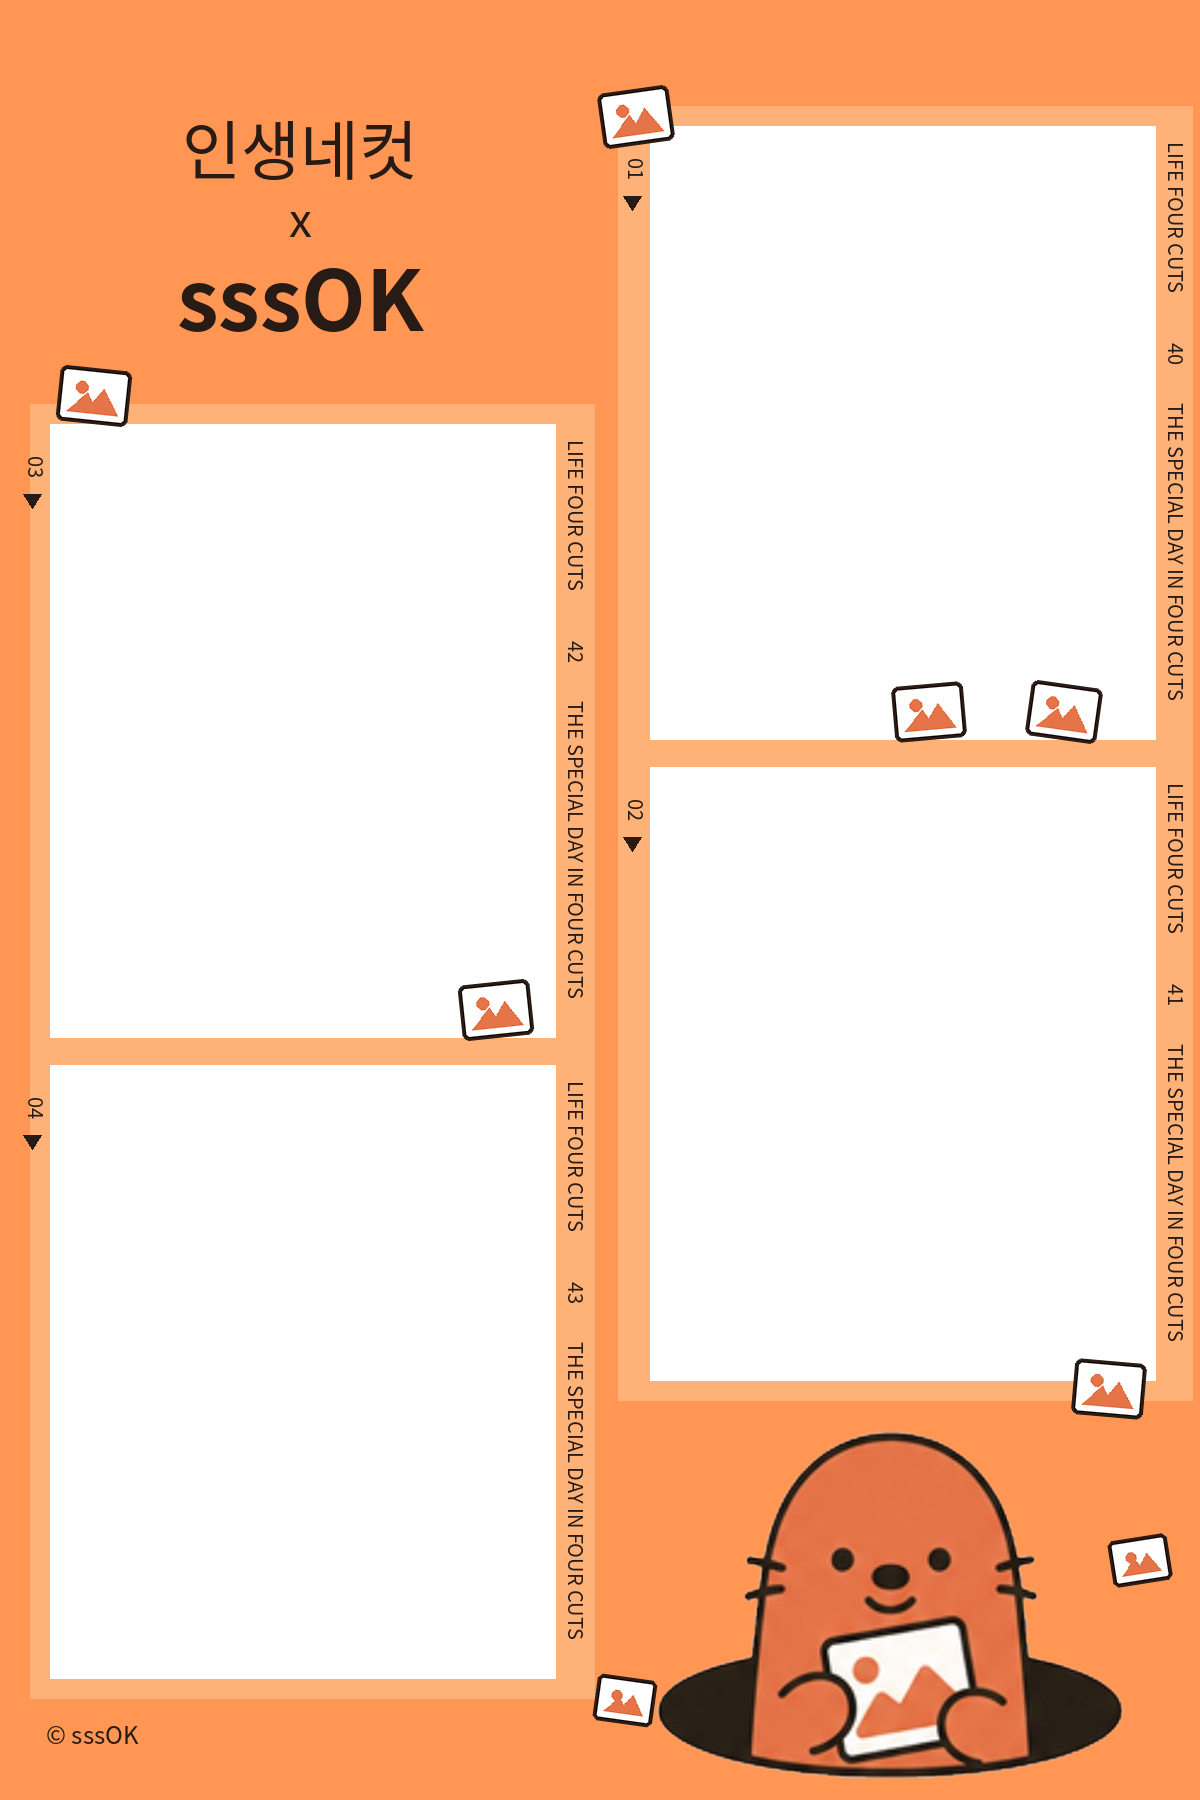
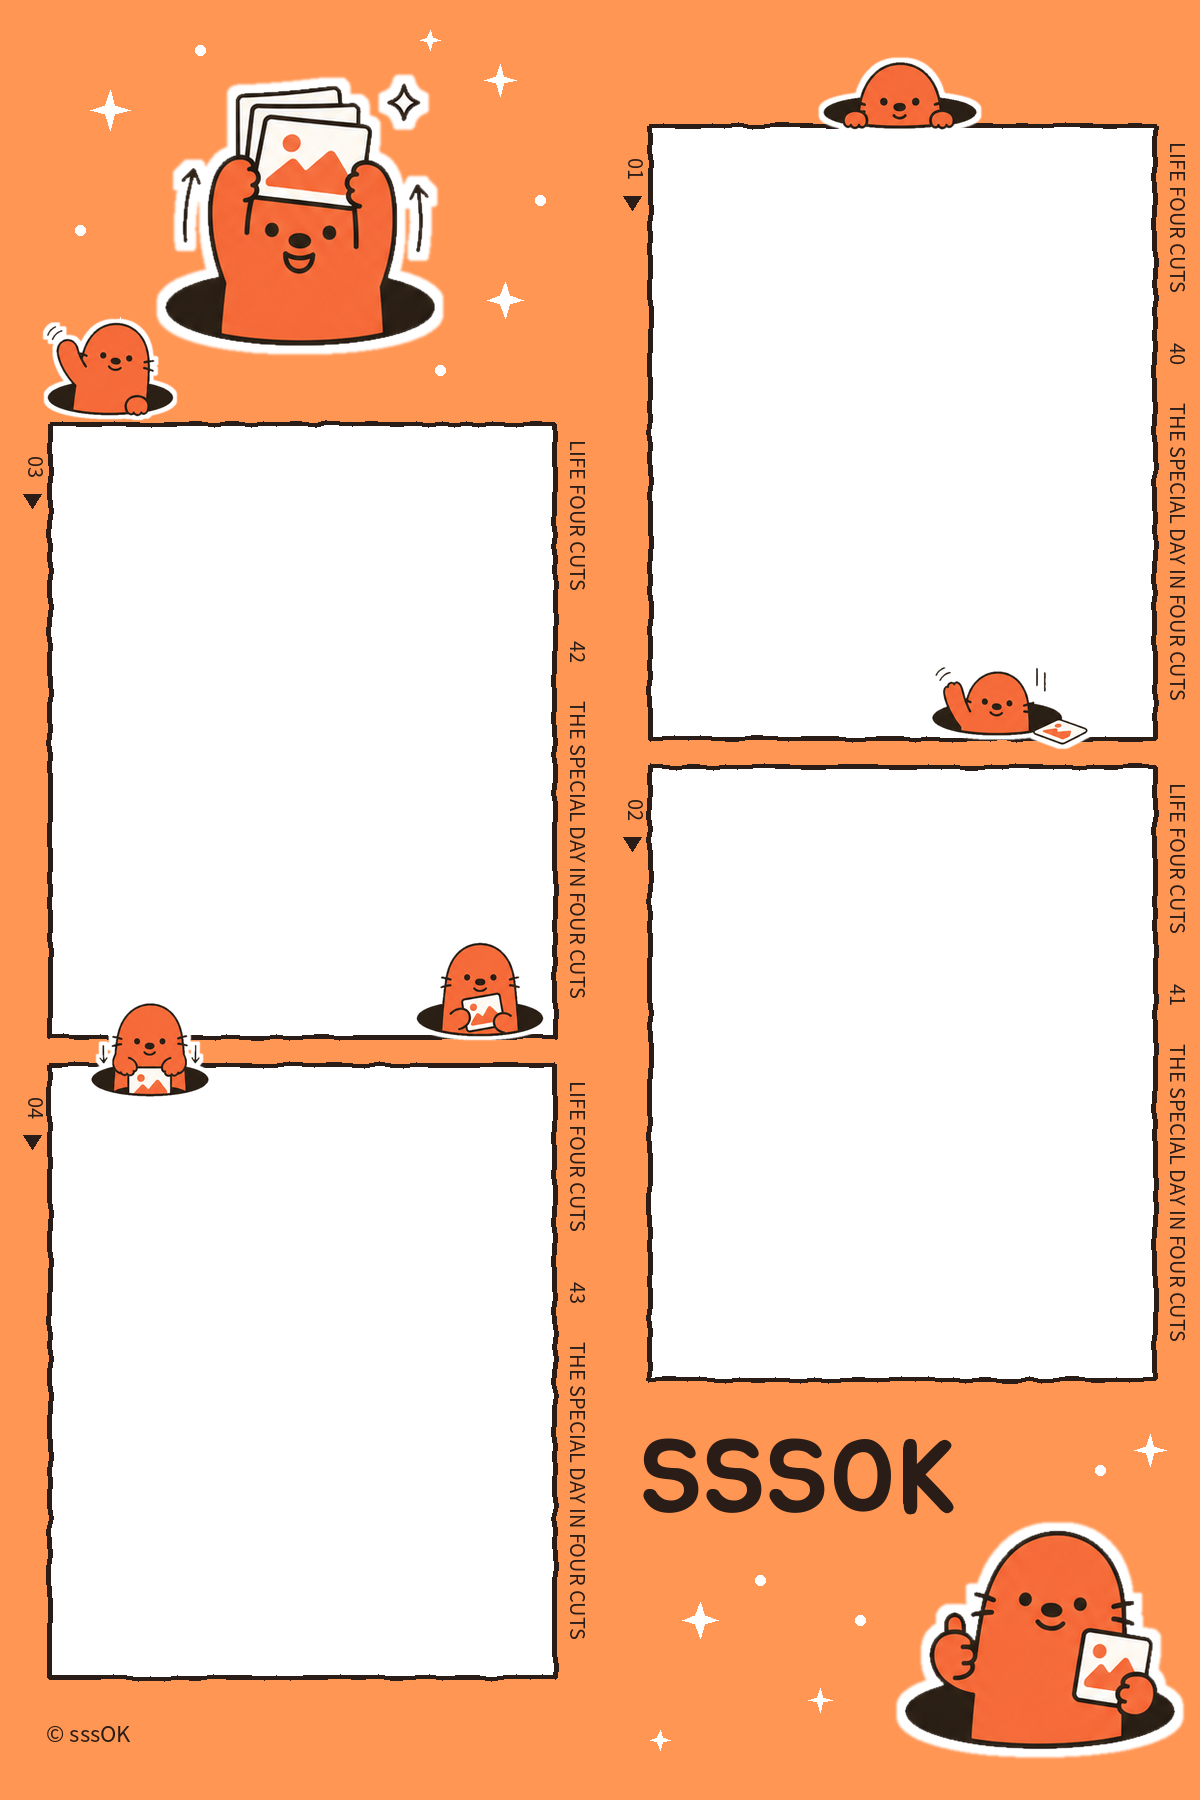
feat: 쏙지 프레임 교체 및 네컷 확대 보기 추가
- 쏙지 프레임 이미지를 새 쏙 프레임으로 교체
- 네컷 미리보기를 누르면 확대 모달로 크게 볼 수 있게 함
- 배경 클릭·닫기 버튼·Esc로 닫히고, 저장/QR 대기 중에도 동작

Changed region(s): [[0.0, 0.0311, 1.0, 0.9956], [0.4008, 0.1556, 0.4317, 0.1867], [0.4008, 0.0311, 0.4317, 0.0622]]

diff --git a/src/PhotoboothPage.tsx b/src/PhotoboothPage.tsx
@@ -58,6 +58,7 @@ export const PhotoboothPage = () => {
   const [category, setCategory] = useState<FrameCategory>(frames[0].category);
   const layout = frameLayout(frame);
   const [preview, setPreview] = useState("");
+  const [zoomed, setZoomed] = useState(false);
   const [uploadStarted, setUploadStarted] = useState(false);
   const [busy, setBusy] = useState(false);
   const [error, setError] = useState("");
@@ -128,6 +129,21 @@ export const PhotoboothPage = () => {
       if (url) URL.revokeObjectURL(url);
     };
   }, [selected, frame, photos, step]);
+  // 확대 보기는 Esc로도 닫는다. 미리보기가 사라지면 같이 닫는다.
+  useEffect(() => {
+    if (!zoomed) {
+      return;
+    }
+    if (!preview) {
+      setZoomed(false);
+      return;
+    }
+    const onKey = (e: KeyboardEvent) => {
+      if (e.key === "Escape") setZoomed(false);
+    };
+    window.addEventListener("keydown", onKey);
+    return () => window.removeEventListener("keydown", onKey);
+  }, [zoomed, preview]);
   const start = async () => {
     if (
       !document.fullscreenElement &&
@@ -793,7 +809,15 @@ export const PhotoboothPage = () => {
             </div>
             <aside className="booth-preview">
               {preview && selected.length === 4 ? (
-                <img src={preview} alt="합성된 인생네컷 미리보기" />
+                <button
+                  type="button"
+                  className="booth-preview-zoom"
+                  onClick={() => setZoomed(true)}
+                  aria-label="인생네컷 크게 보기"
+                >
+                  <img src={preview} alt="합성된 인생네컷 미리보기" />
+                  <span>눌러서 크게 보기</span>
+                </button>
               ) : (
                 <p>
                   {selected.length === 4
@@ -862,6 +886,28 @@ export const PhotoboothPage = () => {
             다음 촬영 시작
           </button>
         </section>
+      )}
+      {zoomed && preview && (
+        <div
+          className="booth-zoom"
+          role="dialog"
+          aria-modal="true"
+          aria-label="인생네컷 확대 보기"
+          onClick={() => setZoomed(false)}
+        >
+          <img
+            src={preview}
+            alt="확대한 인생네컷"
+            onClick={(e) => e.stopPropagation()}
+          />
+          <button
+            type="button"
+            className="booth-zoom-close"
+            onClick={() => setZoomed(false)}
+          >
+            닫기
+          </button>
+        </div>
       )}
       <footer>쏙 · 데모데이 포토부스</footer>
     </main>

diff --git a/src/photobooth.css b/src/photobooth.css
@@ -403,6 +403,60 @@ summary:focus-visible {
   margin: 0 auto 16px;
   box-shadow: 0 4px 12px #1a1a1a12;
 }
+.booth .booth-preview-zoom {
+  display: block;
+  padding: 0;
+  border: 0;
+  background: transparent;
+  margin: 0 auto 16px;
+  cursor: zoom-in;
+}
+.booth-preview-zoom > img {
+  display: block;
+  height: 340px;
+  width: auto;
+  max-width: 100%;
+  margin: 0 auto;
+  box-shadow: 0 4px 12px #1a1a1a12;
+}
+.booth-preview-zoom > span {
+  display: block;
+  margin-top: 8px;
+  color: #8b8781;
+  font-size: 12px;
+}
+.booth-zoom {
+  position: fixed;
+  inset: 0;
+  z-index: 50;
+  background: #1a1a1acc;
+  display: grid;
+  place-items: center;
+  padding: 24px;
+  cursor: zoom-out;
+}
+.booth-zoom > img {
+  max-width: min(100%, 560px);
+  max-height: calc(100vh - 48px);
+  width: auto;
+  height: auto;
+  object-fit: contain;
+  border-radius: 8px;
+  box-shadow: 0 12px 40px #00000040;
+  cursor: default;
+}
+.booth .booth-zoom-close {
+  position: fixed;
+  top: 16px;
+  right: 16px;
+  min-height: 40px;
+  padding: 0 18px;
+  border-radius: 999px;
+  border: 0;
+  background: #fff;
+  color: #1a1a1a;
+  font-size: 14px;
+}
 .booth-preview > p {
   min-height: 340px;
   display: grid;
@@ -614,7 +668,8 @@ summary:focus-visible {
     grid-template-columns: repeat(4, minmax(0, 1fr));
     max-height: 180px;
   }
-  .booth-preview > img {
+  .booth-preview > img,
+  .booth-preview-zoom > img {
     height: 360px;
   }
   .booth fieldset {
